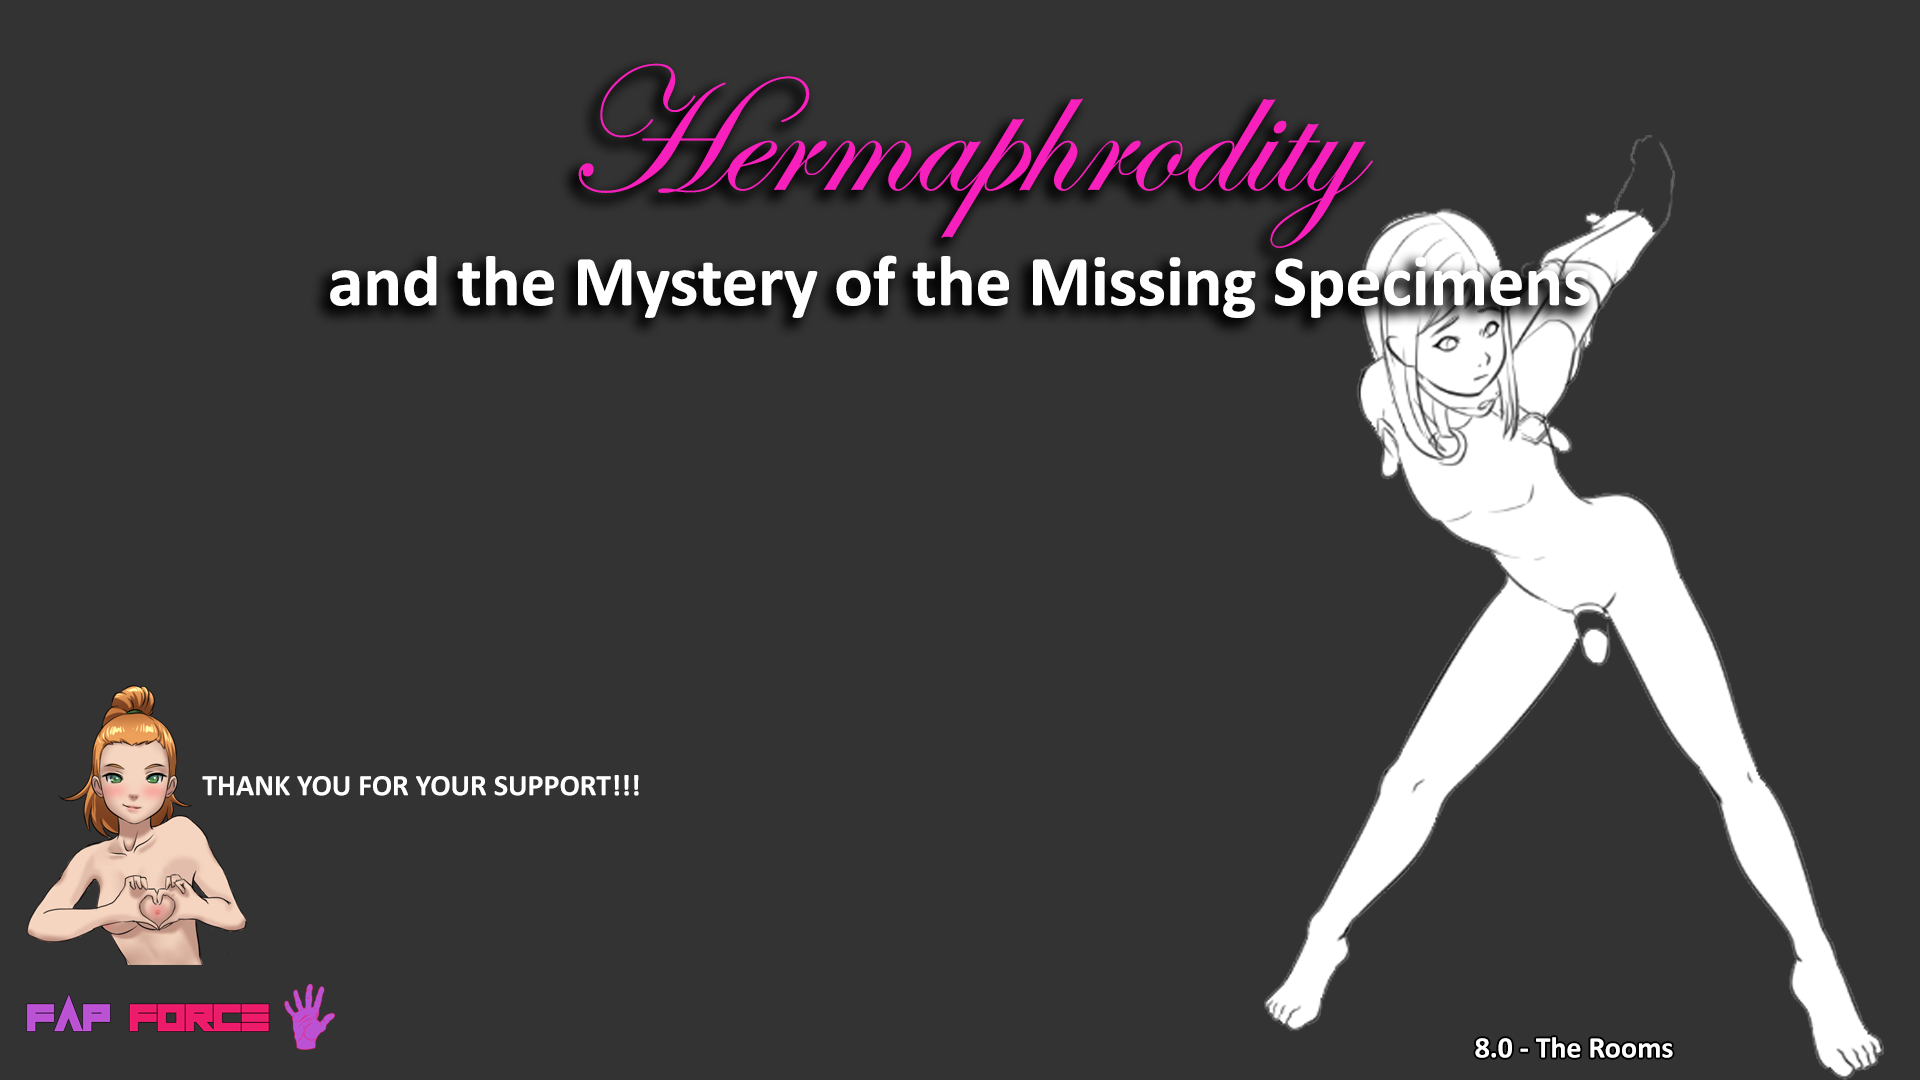
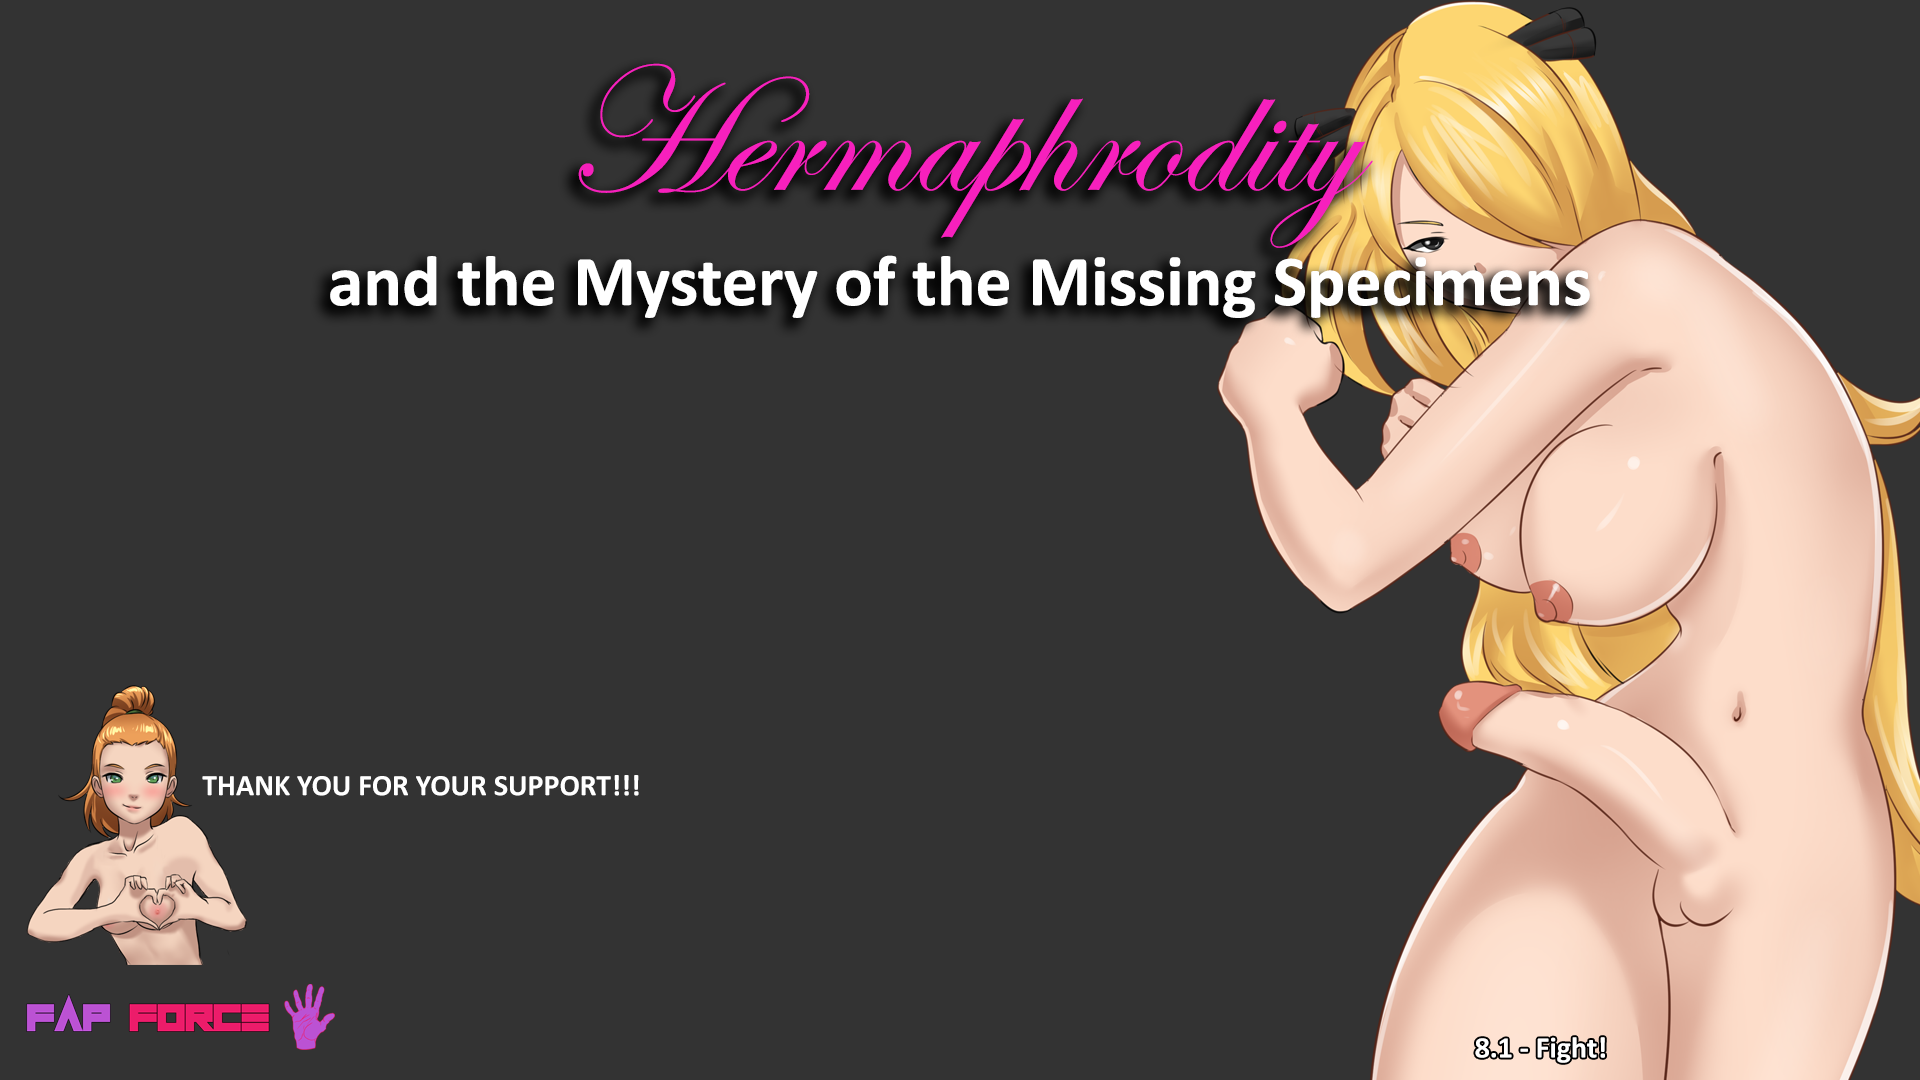
v8.1c Public release - 2

Changed region(s): [[0.625, 0.0, 1.0, 1.0]]

diff --git a/scripts/room/room028.js b/scripts/room/room028.js
@@ -75,23 +75,22 @@ room28.main = function () {
                     g.st[i].t -= 2;
                 break;
             case "shinkCock":
-                thisTinyPP = g.st[i].t;
-                g.st[i].t = false;
+                if (cl.c.cock < 4) {
+                    thisTinyPP = g.st[i].t;
+                    g.st[i].t = false;
+                }
                 break;
         }
     }
 
-
-
     //check Transformation
-
     
     var btnList = null;
     if (thisTinyPP) {
         console.log("tinyPP")
         btnList = [{
             "type": "btn",
-            "name": cl.c.chest < 4 ? "cock" : "invalid",
+            "name": "cock",
             "left": 1418,
             "top": 457,
             "width": 256,

diff --git a/startGame.html b/startGame.html
@@ -76,6 +76,7 @@
     <script src="./scripts/room/room225.js" type="text/javascript"></script>
     <script src="./scripts/room/room226.js" type="text/javascript"></script>
     <script src="./scripts/room/room227.js" type="text/javascript"></script>
+    <script src="./scripts/room/room228.js" type="text/javascript"></script>
     <script src="./scripts/room/room250.js" type="text/javascript"></script>
     <script src="./scripts/room/room251.js" type="text/javascript"></script>
     <script src="./scripts/room/room350.js" type="text/javascript"></script>

diff --git a/scripts/inventory.js b/scripts/inventory.js
@@ -16,7 +16,7 @@ var pic = {};
 //r = room painting
 inv.isFooter = true;
 inv.leftMenu = true;
-inv.roomChange = [10, 12, 201, 451, 452, 503, 552, 553];
+inv.roomChange = [10, 12, 56, 201, 451, 452, 503, 552, 553];
 
 inv.t = [
     { t: "b", n: "Backpack" },
